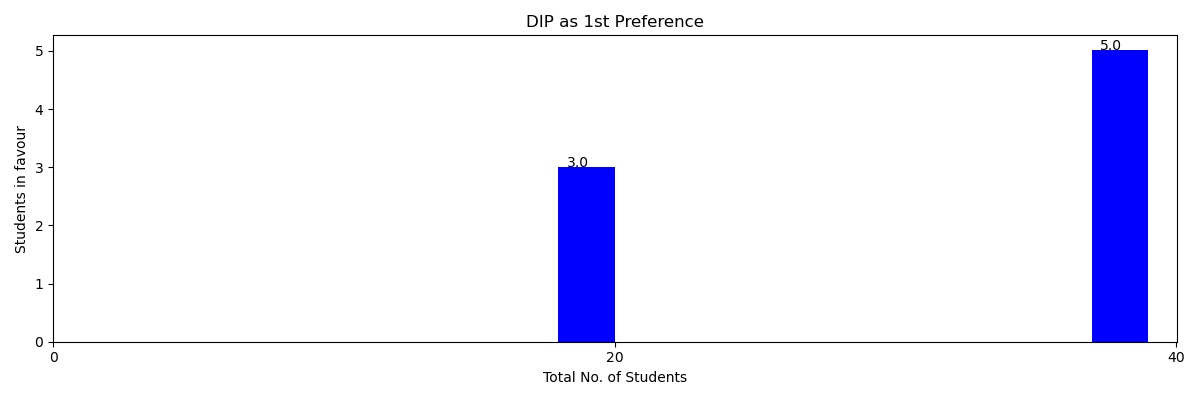
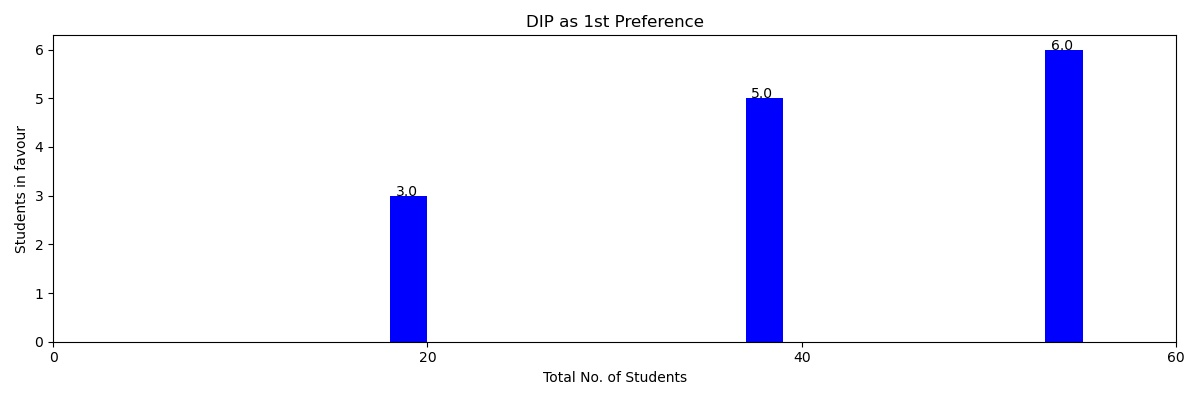
Added New Record

diff --git a/dip/views.py b/dip/views.py
@@ -35,7 +35,7 @@ def home(request):
         else:
             plt.title('DIP as '+str(num)+'th Preference')
 
-        plt.xticks([0,20,40])
+        plt.xticks([0,20,40,60])
         num+=1
 
         plt.xlabel('Total No. of Students')
@@ -49,7 +49,7 @@ def home(request):
 
     x_test=[1,2,3,4,5,6]
     
-    fig = plt.figure()
+    fig = plt.figure(figsize=(12,4))
     plt.plot(x_test, y_pred, 'o-b')
     for i,j in zip(x_test,y_pred):
         plt.annotate(str(int(j)),xy=(i-0.07,j+0.9))
